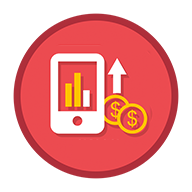
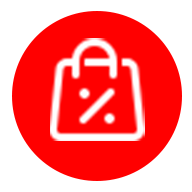
last changes

diff --git a/Client/src/views/More/More.jsx b/Client/src/views/More/More.jsx
@@ -6,6 +6,7 @@ import style from "./More.module.css";
 import axios from "axios";
 import { useSelector } from "react-redux";
 import crear from '../../assets/crear.png'
+import mysales from '../../assets/mysales.png'
 import mitienda from '../../assets/mitienda.png'
 import contacto from '../../assets/contacto.png'
 import faq from '../../assets/faq.png'
@@ -54,8 +55,9 @@ const More = () => {
         )}
         {userData.vendedor === "vendedor" &&
         storeData?.habilitado === "habilitado" ? (
+          <>
           <CardWide
-            textButton={"Mi Tienda"}
+            textButton={"Mi tienda"}
             logo={
               <img
                 width="60"
@@ -64,8 +66,21 @@ const More = () => {
                 alt="online-order"
               />
             }
-            link={`/mitienda/${storeData.id}`}
+            link={`/mitienda/${storeData && storeData.id}`}
           />
+          <CardWide
+            textButton={"Mis ventas"}
+            logo={
+              <img
+                width="60"
+                height="60"
+                src={mysales}
+                alt="online-order"
+              />
+            }
+            link={`/misventas`}
+          />
+          </>
         ) : (
           storeData &&
           userData.vendedor === "noVendedor" &&

diff --git a/Client/src/main.jsx b/Client/src/main.jsx
@@ -13,7 +13,7 @@ ReactDOM.createRoot(document.getElementById("root")).render(
     domain="dev-o1hla43pri3h7cvl.us.auth0.com"
     clientId="sQO7mPVWHtDSBUpFtajxUHKQrSQ0y9Q9"
     authorizationParams={{
-      redirect_uri: "https://tiendaslocales.com.ar/",
+      redirect_uri: window.location.origin,
     }}
   >
     <Provider store={store}>
